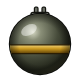
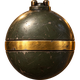
Phone layout, ROWS 8-14 with fitted boards, ChatGPT bomb ball, smooth revolver stop
- Boards for 8 to 14 rows (bays rebuilt with rows + 1 compartments); ROWS key on the console.
- Phones: bigger board below the bonus meter, controls filling the screen, wide keys use the
  panel art, logo fits the start screen.
- The ball is the ChatGPT bomb; the photo revolver turns smoothly and stops dead (no clicks,
  no shake).

diff --git a/game/src/consoleControls.ts b/game/src/consoleControls.ts
@@ -24,9 +24,10 @@ class Key extends Container {
   readonly text: Text;
   enabled = true;
 
-  constructor(texture: Texture, text: string, size: number, colour: string, private readonly onTap: () => void) {
+  constructor(private readonly square: Texture, text: string, size: number, colour: string, private readonly onTap: () => void,
+              private readonly wide: Texture | null = null) {
     super();
-    this.art = new Sprite({ texture, anchor: 0.5 });
+    this.art = new Sprite({ texture: square, anchor: 0.5 });
     this.text = label(text, size, 'center', { fill: colour, stroke: { color: '#000000', width: Math.max(2, size * 0.14), join: 'round' } });
     this.text.anchor.set(0.5, 0.5);
     this.addChild(this.art, this.text);
@@ -43,9 +44,12 @@ class Key extends Container {
 
   /** Sized to w by h (the art stretches), its label kept inside. */
   size(w: number, h: number): void {
+    // a wide key is a panel; a square art stretched wide looks wrong
+    this.art.texture = this.wide && w > h * 1.5 ? this.wide : this.square;
     this.art.width = w;
     this.art.height = h;
     this.hitArea = new Rectangle(-w / 2, -h / 2, w, h);
+    this.text.style.fontSize = Math.round(Math.min(h * 0.42, 26));
     fit(this.text, w * 0.8);
   }
 
@@ -106,6 +110,7 @@ export class ConsoleControls extends Container {
   private readonly auto: Key;
   private readonly turboKey: Key;
   private readonly bumpKey: Key;
+  private readonly rowsKey: Key;
   private readonly credits: Readout;
   private readonly win: Readout;
   private turbo = false;
@@ -115,7 +120,7 @@ export class ConsoleControls extends Container {
   constructor(art: ConsoleArt, private readonly look: ConsoleLook, actions: ConsoleActions, quickBets: number[],
               format: (value: number) => string) {
     super();
-    const key = (text: string, onTap: () => void) => new Key(art.key, text, 18, look.text, onTap);
+    const key = (text: string, onTap: () => void) => new Key(art.key, text, 18, look.text, onTap, art.panel);
     this.drop = new Key(art.drop, 'DROP', 44, '#f3ecd6', () => actions.play());
     this.betMinus = key('−', () => actions.bet(false));
     this.betPlus = key('+', () => actions.bet(true));
@@ -129,10 +134,12 @@ export class ConsoleControls extends Container {
     this.auto = key('AUTO', () => actions.auto());
     this.turboKey = key('TURBO', () => { this.turbo = !this.turbo; this.turboKey.setLit(this.turbo, look); actions.turbo(this.turbo); });
     this.bumpKey = key('⚡', () => actions.bump());
+    // the board's rows: a tap goes to the next size (the game wraps from the largest back to the smallest)
+    this.rowsKey = key('ROWS 8', () => actions.rows(1));
     this.credits = new Readout(art.panel, 'CREDITS', look);
     this.win = new Readout(art.panel, 'WIN', look);
     this.addChild(this.credits, this.win, this.betMinus, this.bet, this.betPlus, ...this.quick, this.ballsMinus, this.balls, this.ballsPlus,
-      ...this.risks, this.auto, this.turboKey, this.bumpKey, this.drop);
+      ...this.risks, this.auto, this.turboKey, this.rowsKey, this.bumpKey, this.drop);
     this.bumpKey.setEnabled(false);
   }
 
@@ -147,26 +154,27 @@ export class ConsoleControls extends Container {
       this.place(rects);
       return;
     }
-    // tall: credits and win side by side, then BET, then the quick bets, then balls and risk, then DROP and the keys
-    const w = Math.min(view.stageW - 24, 520);
+    // tall, top to bottom, filling the screen: credits | win; bet | balls; quick bets; risk; the keys; DROP
+    const w = Math.min(view.stageW - 20, 560);
     const x0 = (view.stageW - w) / 2;
-    const bottom = view.stageH - view.offsetY - 10;
-    const rowH = Math.min(76, (bottom - top) / 6.4);
-    let y = top + rowH * 0.55;
+    const bottom = view.stageH - view.offsetY - 12;
+    const unit = (bottom - top) / 7.9;
+    const rowH = Math.min(84, unit * 0.92);
+    let y = top + unit * 0.55;
     this.credits.position.set(x0 + w * 0.25, y); this.credits.size(w * 0.48, rowH);
     this.win.position.set(x0 + w * 0.75, y); this.win.size(w * 0.48, rowH);
-    y += rowH * 1.05;
-    this.row(this.betMinus, this.bet, this.betPlus, x0, w * 0.5, y, rowH);
-    this.row(this.ballsMinus, this.balls, this.ballsPlus, x0 + w * 0.5, w * 0.5, y, rowH);
-    y += rowH * 1.05;
-    this.spread(this.quick, x0, w, y, rowH * 0.9);
-    y += rowH;
-    this.spread(this.risks, x0, w, y, rowH * 0.9);
-    y += rowH * 1.25;
-    this.drop.position.set(view.stageW / 2, y); this.drop.size(w * 0.56, rowH * 1.5);
-    this.drop.text.style.fontSize = Math.round(rowH * 0.62);
-    this.spreadKeys([this.auto, this.turboKey], x0, w * 0.2, y, rowH);
-    this.spreadKeys([this.bumpKey], x0 + w * 0.8, w * 0.2, y, rowH);
+    y += unit * 1.1;
+    this.row(this.betMinus, this.bet, this.betPlus, x0, w * 0.49, y, rowH);
+    this.row(this.ballsMinus, this.balls, this.ballsPlus, x0 + w * 0.51, w * 0.49, y, rowH);
+    y += unit * 1.1;
+    this.spread(this.quick, x0, w, y, rowH * 0.85);
+    y += unit;
+    this.spread(this.risks, x0, w, y, rowH * 0.85);
+    y += unit;
+    this.spread([this.auto, this.turboKey, this.rowsKey, this.bumpKey], x0, w, y, rowH * 0.8);
+    y += unit * 1.55;
+    this.drop.position.set(view.stageW / 2, y); this.drop.size(w * 0.8, Math.min(unit * 1.9, w * 0.3));
+    this.drop.text.style.fontSize = Math.round(Math.min(unit * 0.8, 52));
     this.drop.base = 1;
   }
 
@@ -178,7 +186,8 @@ export class ConsoleControls extends Container {
     this.spread(this.quick, left.x, left.width, left.y + left.height * 0.76, rowH * 0.85);
     this.row(this.ballsMinus, this.balls, this.ballsPlus, right.x, right.width * 0.62, right.y + right.height * 0.27, rowH);
     this.spread(this.risks, right.x, right.width * 0.62, right.y + right.height * 0.76, rowH * 0.85);
-    this.spreadKeys([this.auto, this.turboKey, this.bumpKey], right.x + right.width * 0.64, right.width * 0.36, right.y + right.height * 0.5, rowH * 0.62, true);
+    this.spreadKeys([this.auto, this.turboKey, this.rowsKey, this.bumpKey], right.x + right.width * 0.64, right.width * 0.36,
+      right.y + right.height * 0.5, rowH * 0.5, true);
     this.drop.position.set(centre.x + centre.width / 2, centre.y + centre.height / 2);
     this.drop.size(centre.width * 1.04, centre.height * 1.1);
     this.drop.text.style.fontSize = Math.round(centre.height * 0.5);
@@ -223,7 +232,10 @@ export class ConsoleControls extends Container {
     this.bet.set(perBall);
     this.quick.forEach((k, i) => k.setLit(perBall.replace(/[^0-9.]/g, '') === String(this.quickValues[i].toFixed(2)), this.look));
   }
-  setRows(_rows: number): void { /* one board for this console */ }
+  setRows(rows: number): void {
+    this.rowsKey.text.text = `ROWS ${rows}`;
+    fit(this.rowsKey.text, this.rowsKey.art.width * 0.8);
+  }
 
   /** busy: balls falling (settings lock); auto: autoplay; left: balls still to land. */
   setPlaying(busy: boolean, auto: boolean, left: number): void {
@@ -238,6 +250,6 @@ export class ConsoleControls extends Container {
     fit(this.drop.text, this.drop.art.width * 0.7);
     this.auto.setLit(auto, this.look);
     this.bumpKey.setEnabled(left > 0);
-    for (const k of [this.betMinus, this.betPlus, this.ballsMinus, this.ballsPlus, ...this.quick, ...this.risks]) k.setEnabled(!busy);
+    for (const k of [this.betMinus, this.betPlus, this.ballsMinus, this.ballsPlus, this.rowsKey, ...this.quick, ...this.risks]) k.setEnabled(!busy);
   }
 }

diff --git a/game/src/theme.ts b/game/src/theme.ts
@@ -6,6 +6,7 @@ import { SOUND_NAMES, type SoundName } from './sound';
 
 export interface ThemeFont { family: string; file: string | null; weight: string }
 export interface SlotStyle { face: string; text: string }
+export interface FitFrame { rowGap: number; x: number; y: number; spacing: number; frame: string; framePortrait: string }
 export interface BoardStyle {
   peg: string | null;            // image for the pegs (else plain dots)
   pegFlash: string;              // glow when a ball touches a peg
@@ -15,11 +16,12 @@ export interface BoardStyle {
   slotArt: boolean;              // prize slots drawn from item_slot_0..4.png (centre -> edge) instead of flat colour
   fx: ThemeFx;                   // the theme's signature effects (visual only)
   /**
-   * A frame drawn for one board (a picture with its own triangle and slot compartments): the only number of rows it
-   * fits, how close its peg rows are (a share of the spacing across), where on the frame picture the top centre of
-   * the pegs goes and how many of its pixels one peg spacing is (in the picture's own pixels, at 1x)
+   * Frames drawn for each board (a picture with its own triangle and slot compartments), by number of rows: the
+   * pictures (wide, tall), how close the peg rows are (a share of the spacing across), where on the picture the top
+   * centre of the pegs goes and how many of its pixels one peg spacing is (the picture's own pixels, at 1x). Only
+   * these numbers of rows are offered.
    */
-  fit: { rows: number; rowGap: number; x: number; y: number; spacing: number } | null;
+  fit: Record<number, FitFrame> | null;
 }
 /** The look of the parts the game draws in code (the bonus meter): 'flat', 'glass' (shaded) or 'ink' (flat colour with
  * thick ink outlines; `ink` and `panel` give its colours). */
@@ -99,13 +101,20 @@ function readFont(json: unknown): ThemeFont {
   return { family, file: fileName(f.file, /\.(woff2|woff|ttf)$/), weight: typeof f.weight === 'string' && /^[1-9]00$/.test(f.weight) ? f.weight : 'normal' };
 }
 
-/** A frame fitted to one board (see BoardStyle.fit), or null. */
+/** Frames fitted to boards (see BoardStyle.fit), by rows, or null. */
 function readFit(json: unknown): BoardStyle['fit'] {
-  const f = (json ?? null) as Record<string, unknown> | null;
-  if (!f) return null;
+  const all = (json ?? null) as Record<string, unknown> | null;
+  if (!all) return null;
   const n = (v: unknown) => (typeof v === 'number' && Number.isFinite(v) && v > 0 ? v : null);
-  const [rows, rowGap, x, y, spacing] = [n(f.rows), n(f.rowGap), n(f.x), n(f.y), n(f.spacing)];
-  return rows && rowGap && x && y && spacing ? { rows: Math.round(rows), rowGap, x, y, spacing } : null;
+  const out: Record<number, FitFrame> = {};
+  for (const [key, value] of Object.entries(all)) {
+    const f = (value ?? {}) as Record<string, unknown>;
+    const rows = Number(key);
+    const [rowGap, x, y, spacing] = [n(f.rowGap), n(f.x), n(f.y), n(f.spacing)];
+    const frame = fileName(f.frame, /\.png$/), framePortrait = fileName(f.framePortrait, /\.png$/);
+    if (Number.isInteger(rows) && rowGap && x && y && spacing && frame && framePortrait) out[rows] = { rowGap, x, y, spacing, frame, framePortrait };
+  }
+  return Object.keys(out).length ? out : null;
 }
 
 function readRevolverArt(json: unknown): RevolverArt | null {

diff --git a/game/src/game.ts b/game/src/game.ts
@@ -113,9 +113,10 @@ export class Game extends Container {
     super();
     const config = session.config;
     // a frame drawn for one board (theme fit) allows only its number of rows
-    const only = theme.board.fit?.rows;
+    const fitted = theme.board.fit;
     const offered = config.rows.map(r => r.rows).sort((a, b) => a - b);
-    this.rowOptions = only && offered.includes(only) ? [only] : offered;
+    this.rowOptions = fitted ? offered.filter(rows => fitted[rows]) : offered;
+    if (this.rowOptions.length === 0) this.rowOptions = offered;
     this.rows = this.rowOptions[0] ?? 8;
     const defaultBet = config.defaultBet || config.minBet;
     this.ladder = betLadder(config.minBet, config.maxBet, defaultBet);
@@ -126,7 +127,8 @@ export class Game extends Container {
     this.menu = new Menu(tex('logo.png'), tex('logo_p.png'), tex('button_start.png'), () => this.start(),
       neonLayers(theme).map(([wide, tall]) => [tex(wide), tex(tall)]), motion);
     this.board = new Board(tex('item_plinko.png'), tex('item_plinko_p.png'), tex('item_ball.png'), theme.board,
-      theme.board.peg ? tex(theme.board.peg) : null);
+      theme.board.peg ? tex(theme.board.peg) : null,
+      Object.fromEntries(Object.entries(theme.board.fit ?? {}).map(([rows, f]) => [rows, { wide: tex(f.frame), tall: tex(f.framePortrait) }])));
     const inkLook = theme.ui.style === 'ink' ? { ink: theme.ui.ink, panel: theme.ui.panel } : null;
     this.meter = new Meter(theme.accent, theme.ui.style === 'glass' ? theme.background : null, inkLook);
     this.meter.set(session.meter?.enabled ?? false, session.meter?.charges ?? 0, session.meter?.of ?? 0);
@@ -170,7 +172,12 @@ export class Game extends Container {
         const at = Math.max(0, steps.findIndex(balls => balls >= this.balls));
         this.changeBalls(steps[Math.min(steps.length - 1, Math.max(0, at + step))]);
       },
-      rows: (step: number) => this.changeRows(this.rowOptions.indexOf(this.rows) + step),
+      // the console's ROWS key only goes forward: past the largest board it comes back to the smallest
+      rows: (step: number) => {
+        const n = this.rowOptions.length;
+        const at = this.rowOptions.indexOf(this.rows) + step;
+        this.changeRows(this.bar instanceof ConsoleControls ? ((at % n) + n) % n : at);
+      },
       pickBet: (value: number) => this.pickBet(value),
     };
     this.bar = theme.console
@@ -267,7 +274,7 @@ export class Game extends Container {
       // the board and its console, centred and as big as the screen allows (wide); the board on top (tall)
       this.board.layout(view, view.landscape
         ? { x: view.stageW / 2, y: view.offsetY + visibleH * 0.52, fit: 1, room: { w: view.stageW * 0.78, h: visibleH * 0.94 } }
-        : { x: view.stageW / 2, y: view.offsetY + visibleH * 0.26, fit: 1, room: { w: view.stageW - 10, h: visibleH * 0.42 } });
+        : { x: view.stageW / 2, y: view.offsetY + 92 + visibleH * 0.21, fit: 1, room: { w: view.stageW * 1.16, h: visibleH * 0.42 } });
       return;
     }
     this.board.layout(view, view.landscape ? { x: view.stageW * 0.32, y: view.offsetY + visibleH * 0.5, fit: 1 }

diff --git a/game/src/board.ts b/game/src/board.ts
@@ -4,7 +4,7 @@ import type { Viewport } from './viewport';
 import { label, textQuality, typeface } from './ui';
 import { Particles, shake } from './effects';
 import { goldText } from './paint';
-import type { BoardStyle, ThemeFx } from './theme';
+import type { BoardStyle, FitFrame, ThemeFx } from './theme';
 import { prizeIndexOfSlot, slotTier } from './rules';
 
 export { prizeIndexOfSlot, slotTier };
@@ -273,8 +273,12 @@ export class Board extends Container {
   private readonly gateLayer = new Container();
   private gates: { step: number; from: number; to: number; view: Container }[] = [];
 
+  /** The fitted frame of the board on show (see BoardStyle.fit), and the textures of every fitted frame. */
+  private fitNow: FitFrame | null = null;
+  private lastPlace: { view: Viewport; place: Parameters<Board['layout']>[1] } | null = null;
+
   constructor(frame: Texture, framePortrait: Texture, private readonly ballTexture: Texture, private readonly style: BoardStyle,
-              pegTexture: Texture | null) {
+              pegTexture: Texture | null, private readonly fitFrames: Record<number, { wide: Texture; tall: Texture }> = {}) {
     super();
     this.trailDot = style.trail ? new GraphicsContext().circle(0, 0, 1).fill(style.trail) : null;
     this.pegFlashColour = style.pegFlash;
@@ -310,6 +314,17 @@ export class Board extends Container {
   /** Rows (8..14) and the multipliers per prize position ([low, mid, high] each), from the server's config. */
   setRows(rows: number, prizes: number[][]): void {
     this.rows = rows;
+    // a fitted frame for this board: its picture, and its row spacing (the pegs move to it)
+    const fit = this.style.fit?.[rows];
+    if (fit && this.fitFrames[rows]) {
+      this.fitNow = fit;
+      setRowGap(fit.rowGap);
+      this.frame.texture = this.fitFrames[rows].wide;
+      this.framePortrait.texture = this.fitFrames[rows].tall;
+      this.pegs.forEach((row, r) => row.forEach(peg => { peg.y = ROW * (r + 1); }));
+      this.pegFlashes.forEach((row, r) => row.forEach(flash => { flash.y = ROW * (r + 1); }));
+      if (this.lastPlace) this.layout(this.lastPlace.view, this.lastPlace.place);
+    }
     this.prizes = prizes;
     this.pegs.forEach((row, r) => row.forEach(peg => { peg.visible = r < rows; }));
     this.slotLayer.removeChildren().forEach(child => child.destroy({ children: true }));
@@ -547,7 +562,8 @@ export class Board extends Container {
     const max = view.landscape ? { w: 1000, h: Math.min(510, visibleH - 110) } : { w: 570, h: 440 };
     // Plinko Mega places the board itself (room for the wheel and the control bar) and shrinks it, frame and all
     const fitTo = place?.fit ?? 1;
-    const fit = this.style.fit;
+    this.lastPlace = { view, place };
+    const fit = this.fitNow;
     if (fit) {
       // a frame drawn for this board: the whole frame fits the room, and the pegs sit where the frame shows them
       const picture = view.landscape ? this.frame : this.framePortrait;

diff --git a/game/src/main.ts b/game/src/main.ts
@@ -13,7 +13,7 @@ import { atlasUrls, imageUrls, inAtlas, type Formats } from './images';
 import { computeViewport } from './viewport';
 import { initSounds, startMusic } from './sound';
 import { setTextQuality, setTypeface } from './ui';
-import { setMegaLook, setSlotArt, setSlotLooks, setRowGap, setSpinMark } from './board';
+import { setMegaLook, setSlotArt, setSlotLooks, setSpinMark } from './board';
 import { Game } from './game';
 import { BackdropVideo } from './backdrop';
 
@@ -37,6 +37,7 @@ function themeExtras(theme: Theme): string[] {
     ...(theme.wheel.revolverArt ? [theme.wheel.revolverArt.cylinder, theme.wheel.revolverArt.dial, theme.wheel.revolverArt.flash,
       ...Object.values(theme.wheel.revolverArt.cartridges)] : []),
     ...(theme.wheel.spinMark ? [theme.wheel.spinMark] : []),
+    ...Object.values(theme.board.fit ?? {}).flatMap(f => [f.frame, f.framePortrait]),
   ];
 }
 
@@ -192,7 +193,6 @@ async function start(): Promise<void> {
   const tex = (file: string) => textures[file];
   if (theme.board.slotArt) setSlotArt(SLOT_ART.map(tex));
   setMegaLook(theme.wheel.title, theme.wheel.ink, theme.wheel.gate ? tex(theme.wheel.gate) : null);
-  if (theme.board.fit) setRowGap(theme.board.fit.rowGap);
   setSpinMark(theme.wheel.spinMark ? tex(theme.wheel.spinMark) : null);
   initSounds(theme.path, theme.sounds);
 

diff --git a/game/src/fortuneWheel.ts b/game/src/fortuneWheel.ts
@@ -160,7 +160,8 @@ export class FortuneWheel extends Container {
     const step = Math.PI * 2 / segments.length;
     // never the same stop twice: how many turns, how fast, and how many chambers click in one by one at the end
     const turns = calm ? 1 : this.hurried ? 2 : 2 + Math.floor(Math.random() * 3);
-    const clicks = calm || this.hurried ? 0 : 1 + Math.floor(Math.random() * 3);
+    // a drawn revolver clicks its last chambers in; the photo revolver turns smoothly and stops dead
+    const clicks = calm || this.hurried || this.photo(segments) ? 0 : 1 + Math.floor(Math.random() * 3);
     const start = this.disc.rotation % (Math.PI * 2);
     this.disc.rotation = start;
     // a revolver stops dead on a chamber; a wheel anywhere within its segment
@@ -338,7 +339,7 @@ export class FortuneWheel extends Container {
     // debris and embers
     this.sparks.burst(0, y, ['#1a1d21', '#4b5320', '#2b3036', '#6e5216'], big ? 34 : 20, big ? 950 : 700, 1500);
     this.sparks.burst(0, y, ['#ffd76a', '#ff8a1a', '#fff3b0'], big ? 46 : 26, big ? 850 : 600, 500);
-    shake(this, big ? 18 : 9);
+    if (!this.art.photo) shake(this, big ? 18 : 9);   // the photo revolver stays still under its blast
   }
 
   /** The jackpot display shows MINI, MAJOR and MEGA in turn, each as what it multiplies a ball's win by. */
